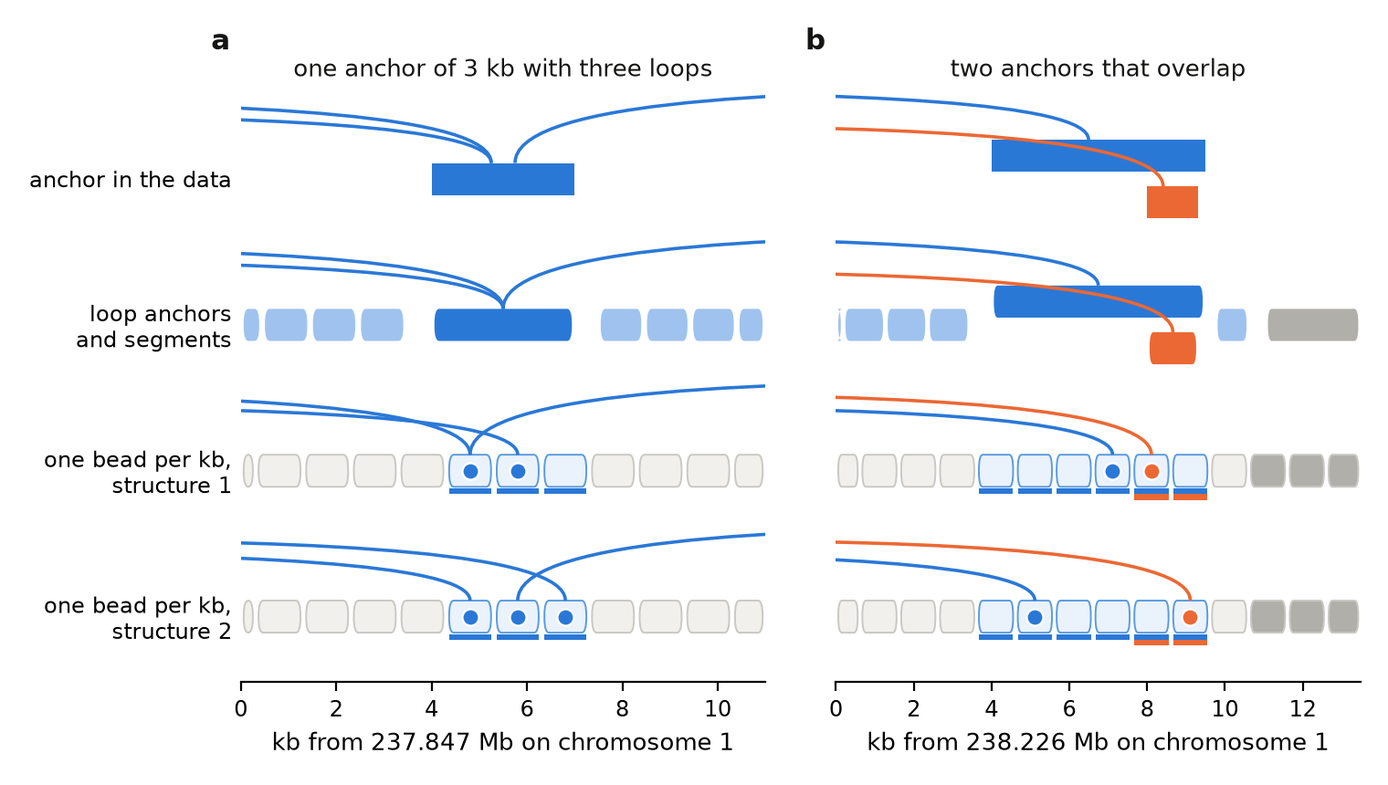
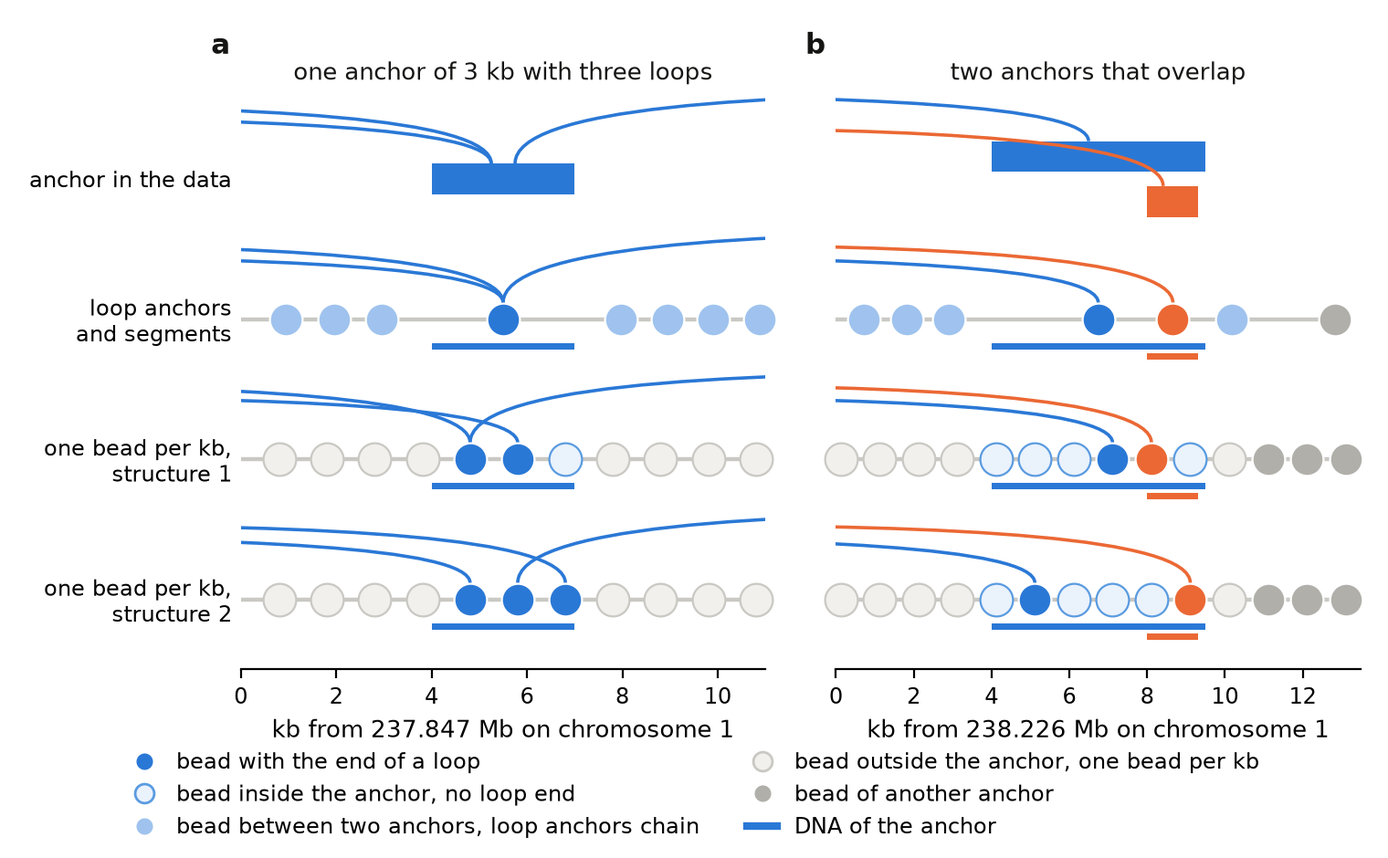
web: figure 8 of the Method page draws the beads, figures 9 and 10 are one figure
Figure 8 drew a bead as a box over its DNA. A bead is now a circle on a chain: the
chain of loop anchors has one bead for an anchor with the DNA of the anchor as a bar
under it, and the chain of one bead per kilobase has a bead on every kilobase, filled
where a loop ends. A key under the panels gives each kind of bead.

The kept loops and the targets of the nodes were two figures, each too large alone.
They are the panels a and b of figure 9, method_uniform_nodes.png, drawn by
uniform_nodes of render_method.py. The figures of the engine are 10a and 10b.

method_uniform_loops.png and method_uniform_targets.png are no longer used by the
page and are left in place.

Frontend: 368 tests, eslint, tsc and the build pass.

diff --git a/web/frontend/src/pages/Method.tsx b/web/frontend/src/pages/Method.tsx
@@ -17,8 +17,7 @@ import methodExponent from '../assets/method_exponent.png'
 import methodHic from '../assets/method_hic.png'
 import methodLoops from '../assets/method_loops.png'
 import methodUniformAnchor from '../assets/method_uniform_anchor.png'
-import methodUniformLoops from '../assets/method_uniform_loops.png'
-import methodUniformTargets from '../assets/method_uniform_targets.png'
+import methodUniformNodes from '../assets/method_uniform_nodes.png'
 import { METHOD_REFERENCES } from '../content/methodReferences'
 
 const SECTIONS = [
@@ -133,7 +132,7 @@ function P({ children }: { children: string }) {
 /** One job from its inputs to its output, with the energies and their sources. */
 export function Method() {
   const uniform = !hidden('uniform_chain')
-  const engineFigure = uniform ? 11 : 8
+  const engineFigure = uniform ? 10 : 8
   return (
     <DocPage
       title="Method"
@@ -295,14 +294,14 @@ export function Method() {
         <h3>The ends of a loop</h3>
         <P>{"The chain has one bead for each kilobase of a block. An anchor covers the beads inside its coordinates, three beads for an anchor of 3 kb. A loop joins two anchors and ends on one bead of each, which is drawn at random among the beads of the anchor for every structure. A bead with the end of a loop is called a node. Two loops of one anchor can end on different nodes, while the nodes of one loop differ between two structures, figure 8a."}</P>
         <P>{"Two anchors of the data can overlap. On the chain of loop anchors each of them is a bead of its own and the two beads then cover the same DNA. On the chain of one bead per kilobase the two anchors share the beads of their overlap, figure 8b. A loop of either anchor can end on a shared bead and two loop ends on one bead make one node."}</P>
-        <Figure n="8" src={methodUniformAnchor} alt="One anchor of 3 kb with three loops and two overlapping anchors, each drawn as the data give them, as beads of the chain of loop anchors and as beads of the chain of one bead per kilobase in two structures, with the bead of every loop end">
-          An example of an anchor on the two chains, chromosome 1 of GM12878. a, one anchor of 3 kb with three loops, near 237.85 Mb. The chain of loop anchors has one bead for the anchor and every loop ends on it. The chain of one bead per kilobase has three beads under the anchor, marked by the line under them. Each loop ends on one of the three, drawn anew in every structure. A dot is a node. b, two anchors that overlap near 238.23 Mb, the smaller one inside the larger. The chain of loop anchors has one bead for each and the two beads cover the same DNA. On the chain of one bead per kilobase the two anchors share two beads. Grey beads belong to another anchor. The loops are those of the anchors in the data.
+        <Figure n="8" src={methodUniformAnchor} alt="One anchor of 3 kb with three loops and two overlapping anchors, each drawn as the data give them, as the beads of the chain of loop anchors and as the beads of the chain of one bead per kilobase in two structures, every bead a circle and the beads with a loop end filled">
+          An example of an anchor on the two chains, chromosome 1 of GM12878. A circle is a bead and the line under the beads is the DNA of the anchor. a, one anchor of 3 kb with three loops, near 237.85 Mb. The chain of loop anchors has one bead for the anchor and every loop ends on it. The chain of one bead per kilobase has three beads on the anchor. Each loop ends on one of the three, drawn anew in every structure. A filled bead is a node. b, two anchors that overlap near 238.23 Mb, the smaller one inside the larger. The chain of loop anchors has one bead for each and the two beads cover the same DNA. On the chain of one bead per kilobase the two anchors share two beads. Grey beads belong to another anchor. The loops are those of the anchors in the data.
         </Figure>
 
         <h3>The loops of one structure</h3>
-        <P>{"A loop is present in a share of the cells of the experiment and that share is larger for a strong loop. A structure represents one conformation and therefore keeps a loop with a probability that grows with its strength. The probability is q / (q + 1), where q is the strength of the loop, its PET count over the typical count at its span, section 2. A loop of typical strength has q of 1 and is in half of the structures, while a loop four times as strong is in four of five, figure 9."}</P>
-        <Figure n="9" src={methodUniformLoops} alt="The share of the structures that keep a loop against the strength of the loop, a curve from 0.05 at a strength of 0.05 to 0.97 at 30 with the 46 loops of the example region as points on it">
-          An example of the loops that a structure keeps, the 46 loops of the region of figure 1. Each point is a loop at its strength q and the line is the share of the structures that keep it. The dashed lines mark a loop of typical strength, which is in half of the structures.
+        <P>{"A loop is present in a share of the cells of the experiment and that share is larger for a strong loop. A structure represents one conformation and therefore keeps a loop with a probability that grows with its strength. The probability is q / (q + 1), where q is the strength of the loop, its PET count over the typical count at its span, section 2. A loop of typical strength has q of 1 and is in half of the structures, while a loop four times as strong is in four of five, figure 9a."}</P>
+        <Figure n="9" src={methodUniformNodes} alt="Left, the share of the structures that keep a loop against the strength of the loop, a curve from 0.05 at a strength of 0.05 to 0.97 at 30 with the 46 loops of the example region as points on it. Right, a matrix of the pairs of the 31 nodes of one structure of the region coloured by the kind of target, with loops and background pairs under 100 kb near the diagonal and the background between two stretches of 100 kb across the blocks">
+          An example of the loops and the targets of one structure, the region of figure 1. a, the 46 loops of the region. Each point is a loop at its strength q and the line is the share of the structures that keep it. The dashed lines mark a loop of typical strength, which is in half of the structures. b, the targets of the 31 nodes of one structure. Every pair of nodes is coloured by its target. The pairs of two stretches of 100 kb reach across the blocks, where the chain of loop anchors has no target in figure 6a.
         </Figure>
 
         <h3>The nodes in the anchor phase</h3>
@@ -311,15 +310,12 @@ export function Method() {
 
         <h3>Contacts from the Hi-C map</h3>
         <P>{"Section 2 reads the Hi-C map for pairs of anchors. This chain reads it in cells of 5 kb, where a cell is the count of contacts between two stretches of 5 kb. A pair of nodes reads the cell that holds its two beads. The count of a cell is compared with its expected count, the mean count at the same genomic separation multiplied by the coverage of its two stretches. The coverage of a stretch is its share of contacts relative to an average stretch and comes from the balancing weights of the map."}</P>
-        <P>{"A count of rare events varies by about the square root of its expected value. A cell therefore counts as enriched when it is more than three such deviations above its expected count and as depleted when it is as far below. A cell with an expected count of 16 is enriched at 28 contacts or more and depleted at 4 or fewer. The two nodes of an enriched cell get a target under the background distance and those of a depleted cell a target over it, both by the rule of section 2 for the Hi-C map. Such cells are rare and the example of figure 10 has none."}</P>
+        <P>{"A count of rare events varies by about the square root of its expected value. A cell therefore counts as enriched when it is more than three such deviations above its expected count and as depleted when it is as far below. A cell with an expected count of 16 is enriched at 28 contacts or more and depleted at 4 or fewer. The two nodes of an enriched cell get a target under the background distance and those of a depleted cell a target over it, both by the rule of section 2 for the Hi-C map. Such cells are rare and the example of figure 9b has none."}</P>
         <P>{"The cells are read with the Hi-C background of the cell type. A job with structural variants, with your own contacts, with a predicted background or with no background has no cells."}</P>
 
         <h3>Distance of two distant parts</h3>
-        <P>{"The background spring of section 3 acts on pairs closer than 100 kb. A chain of single kilobases needs a second hold beyond that distance, since no other term keeps two parts of a region that are megabases apart from folding onto each other. The region is therefore divided into stretches of 100 kb and each stretch is represented by one node, the node closest to its middle. Two of these nodes are held at the background distance b(s) of section 2 when no loop and no cell gives them a target, figure 10."}</P>
+        <P>{"The background spring of section 3 acts on pairs closer than 100 kb. A chain of single kilobases needs a second hold beyond that distance, since no other term keeps two parts of a region that are megabases apart from folding onto each other. The region is therefore divided into stretches of 100 kb and each stretch is represented by one node, the node closest to its middle. Two of these nodes are held at the background distance b(s) of section 2 when no loop and no cell gives them a target, figure 9b."}</P>
         <P>{"Every pair up to 5 Mb apart is held. Beyond 5 Mb a node is paired with two others for each doubling of the separation. The number of springs of a node then grows with the logarithm of the length of the chromosome, while a number that grew with the length itself would outweigh the excluded volume on a whole chromosome."}</P>
-        <Figure n="10" src={methodUniformTargets} alt="A matrix of the pairs of the 31 nodes of one structure of a 6 Mb region coloured by the kind of target, with loops and background pairs under 100 kb near the diagonal and the background between two stretches of 100 kb across the blocks">
-          An example of the targets of the nodes, one structure of the region of figure 1 with 31 nodes. Every pair of nodes is coloured by its target. The pairs of two stretches of 100 kb reach across the blocks, where the chain of loop anchors has no target in figure 6a.
-        </Figure>
 
         <h3>The chain between the nodes</h3>
         <P>{"The chain phase of section 4 moves the beads between the nodes with the same five terms, yet two of its rules differ. A node is not fixed in this chain and moves together with the bead before it and the bead after it, while the centre of mass of the three stays in place. Each neighbour moves by minus half of the step of the node, which lets the node turn among its neighbours at the position the anchor phase gave it. The second rule is the bond, which resists compression ten times as strongly as stretching and keeps two neighbouring beads from overlapping."}</P>

diff --git a/web/frontend/src/pages/Method.test.tsx b/web/frontend/src/pages/Method.test.tsx
@@ -35,9 +35,9 @@ describe('Method page', () => {
   it('numbers every figure once, in the order of the page', () => {
     const { container } = renderMethod()
     const labels = [...container.querySelectorAll('figcaption b, p.panel-caption > b')].map((b) => b.textContent).filter((s) => s?.startsWith('Figure'))
-    expect(labels).toEqual([1, 2, 3, 4, 5, 6, 7, 8, 9, 10].map((n) => `Figure ${n}`).concat(['Figure 11a', 'Figure 11b']))
-    expect(document.getElementById('engine')).toHaveTextContent('figure 11a')
-    expect(document.getElementById('engine')).toHaveTextContent('figure 11b')
+    expect(labels).toEqual([1, 2, 3, 4, 5, 6, 7, 8, 9].map((n) => `Figure ${n}`).concat(['Figure 10a', 'Figure 10b']))
+    expect(document.getElementById('engine')).toHaveTextContent('figure 10a')
+    expect(document.getElementById('engine')).toHaveTextContent('figure 10b')
   })
 
   it('leaves the chain of one bead per kilobase out where the site turns it off', () => {

diff --git a/web/design/render_method.py b/web/design/render_method.py
@@ -664,61 +664,19 @@ def _loop_stub(ax: plt.Axes, x: float, y: float, side: int, reach: float, rise: 
 
 
 def uniform_anchor(tab: Path, out: Path) -> None:
-    """Draws one anchor and two overlapping anchors as the data give them, on the chain of loop
-    anchors and on the chain of one bead per kilobase in two structures."""
+    """Draws one anchor and two overlapping anchors as the data give them, as the beads of the
+    chain of loop anchors and as the beads of the chain of one bead per kilobase in two structures."""
+    from matplotlib.lines import Line2D
+
     both = json.loads((tab / "uniform_anchors.json").read_text())
     tints = [BLUE, "#eb6834"]
-    fig, axes = plt.subplots(1, 2, figsize=(WIDTH, 4.3))
+    edge = "#c9c8c3"
+    fig, axes = plt.subplots(1, 2, figsize=(WIDTH, 4.7))
     rows = ["anchor in the data", "loop anchors\nand segments", "one bead per kb,\nstructure 1", "one bead per kb,\nstructure 2"]
     for ax, key, tag in zip(axes, ("single", "overlap"), ("a", "b"), strict=True):
-        e = both[key]
-        w0, w1 = e["window"]
-        kb = 1e3
-
-        def x(v: float, w0: int = w0, kb: float = kb) -> float:
-            return (v - w0) / kb
-
-        span = x(w1)
-        # The anchors as the data give them, one bar each.
-        for n, a in enumerate(e["anchors"]):
-            y = 3.0 + (0.16 if n == 0 else -0.16) * (len(e["anchors"]) > 1)
-            ax.add_patch(plt.Rectangle((x(a["start"]), y - 0.11), x(a["end"]) - x(a["start"]), 0.22, fc=tints[n], ec="none"))
-        for i, lp in enumerate(e["loops"]):
-            a = e["anchors"][lp["anchor"]]
-            y = 3.0 + (0.16 if lp["anchor"] == 0 else -0.16) * (len(e["anchors"]) > 1)
-            mid = (x(a["start"]) + x(a["end"])) / 2 + 0.25 * lp["side"]
-            _loop_stub(ax, mid, y + 0.11, lp["side"], span, 0.26 + 0.07 * i, tints[lp["anchor"]])
-        # The chain of loop anchors: one bead for an anchor, beads of about 1 kb between two anchors.
-        picked = {(a["start"], a["end"]): n for n, a in enumerate(e["anchors"])}
-        for b in e["default"]:
-            n = picked.get((b["start"], b["end"]))
-            y = 2.0 + ((0.16 if n == 0 else -0.16) if n is not None and len(e["anchors"]) > 1 else 0.0)
-            colour = tints[n] if n is not None else (OTHER if b["anchor"] else PALE)
-            left, right = max(x(b["start"]), 0.0), min(x(b["end"]), span)
-            ax.add_patch(FancyBboxPatch((left + 0.06, y - 0.11), right - left - 0.12, 0.22, boxstyle="round,pad=0.0,rounding_size=0.1", fc=colour, ec="none"))
-        for i, lp in enumerate(e["loops"]):
-            a = e["anchors"][lp["anchor"]]
-            y = 2.0 + (0.16 if lp["anchor"] == 0 else -0.16) * (len(e["anchors"]) > 1)
-            _loop_stub(ax, (x(a["start"]) + x(a["end"])) / 2, y + 0.11, lp["side"], span, 0.26 + 0.07 * i, tints[lp["anchor"]])
-        # The chain of one bead per kilobase in two structures, with the bead of each loop end.
-        for row, draw in zip((1.0, 0.0), e["draws"], strict=True):
-            for b in e["uniform"]:
-                owners = b["anchors"]
-                left, right = max(x(b["start"]), 0.0), min(x(b["end"]), span)
-                colour = WASH if owners else (GAP if not b["covered"] else OTHER)
-                ax.add_patch(FancyBboxPatch((left + 0.06, row - 0.11), right - left - 0.12, 0.22, boxstyle="round,pad=0.0,rounding_size=0.1", fc=colour, ec=MID if owners else "#c9c8c3", lw=0.7))
-                if len(owners) > 1:
-                    ax.add_patch(plt.Rectangle((left + 0.06, row - 0.2), right - left - 0.12, 0.04, fc=tints[1], ec="none"))
-                    ax.add_patch(plt.Rectangle((left + 0.06, row - 0.16), right - left - 0.12, 0.04, fc=tints[0], ec="none"))
-                elif owners:
-                    ax.add_patch(plt.Rectangle((left + 0.06, row - 0.16), right - left - 0.12, 0.04, fc=tints[owners[0]], ec="none"))
-            for i, (lp, bead) in enumerate(zip(e["loops"], draw, strict=True)):
-                b = e["uniform"][bead]
-                centre = (x(b["start"]) + x(b["end"])) / 2
-                ax.plot([centre], [row], marker="o", ms=6.5, color=tints[lp["anchor"]], mec="white", mew=0.8, zorder=5)
-                _loop_stub(ax, centre, row + 0.11, lp["side"], span, 0.26 + 0.07 * i, tints[lp["anchor"]])
-        ax.set_xlim(0, span)
-        ax.set_ylim(-0.45, 3.6)
+        w0, w1 = both[key]["window"]
+        ax.set_xlim(0, (w1 - w0) / 1e3)
+        ax.set_ylim(-0.5, 3.6)
         ax.set_yticks([3.0, 2.0, 1.0, 0.0])
         ax.set_yticklabels(rows if tag == "a" else [""] * 4, fontsize=8.5)
         ax.tick_params(axis="y", length=0)
@@ -728,59 +686,132 @@ def uniform_anchor(tab: Path, out: Path) -> None:
         title = "one anchor of 3 kb with three loops" if key == "single" else "two anchors that overlap"
         ax.set_title(title, fontsize=9.5, color=INK, pad=6)
         letter(ax, tag)
-    fig.tight_layout(w_pad=1.6)
+    fig.tight_layout(w_pad=1.6, rect=(0, 0.1, 1, 1))
+    fig.canvas.draw()
+    # A bead is a circle on the page. Its size comes from the scale of the panel with the longer window.
+    per_kb = min(ax.get_window_extent().width * 72 / fig.dpi / ax.get_xlim()[1] for ax in axes)
+    size = 0.84 * per_kb
+    for ax, key in zip(axes, ("single", "overlap"), strict=True):
+        e = both[key]
+        w0, w1 = e["window"]
+        span = (w1 - w0) / 1e3
+        top = size / 2 / (ax.get_window_extent().height * 72 / fig.dpi / 4.1)
+        two = len(e["anchors"]) > 1
+
+        def x(v: float, w0: int = w0) -> float:
+            return (v - w0) / 1e3
+
+        def centre(b: dict, x=x) -> float:  # noqa: ANN001
+            return (x(b["start"]) + x(b["end"])) / 2
+
+        def bead(at: float, y: float, fill: str, line: str, ax: plt.Axes = ax, span: float = span) -> None:
+            if 0.0 <= at <= span:
+                ax.plot([at], [y], marker="o", ms=size, color=fill, mec=line, mew=0.8, zorder=4, clip_on=False)
+
+        def dna(a: dict, y: float, n: int, ax: plt.Axes = ax, x=x, top: float = top) -> None:  # noqa: ANN001
+            ax.add_patch(plt.Rectangle((x(a["start"]), y - top - 0.1 - 0.07 * n), x(a["end"]) - x(a["start"]), 0.045, fc=tints[n], ec="none"))
+
+        # The anchors as the data give them, one bar each.
+        for n, a in enumerate(e["anchors"]):
+            y = 3.0 + (0.16 if n == 0 else -0.16) * two
+            ax.add_patch(plt.Rectangle((x(a["start"]), y - 0.11), x(a["end"]) - x(a["start"]), 0.22, fc=tints[n], ec="none"))
+        for i, lp in enumerate(e["loops"]):
+            a = e["anchors"][lp["anchor"]]
+            y = 3.0 + (0.16 if lp["anchor"] == 0 else -0.16) * two
+            _loop_stub(ax, centre(a) + 0.25 * lp["side"], y + 0.11, lp["side"], span, 0.26 + 0.07 * i, tints[lp["anchor"]])
+        # The chain of loop anchors: an anchor is one bead, with the DNA it covers as a bar under it.
+        picked = {(a["start"], a["end"]): n for n, a in enumerate(e["anchors"])}
+        ax.plot([centre(b) for b in e["default"]], [2.0] * len(e["default"]), color=edge, lw=1.6, zorder=2)
+        for b in e["default"]:
+            n = picked.get((b["start"], b["end"]))
+            if n is not None:
+                bead(centre(b), 2.0, tints[n], "white")
+                dna(b, 2.0, n)
+            else:
+                bead(centre(b), 2.0, OTHER if b["anchor"] else PALE, "white")
+        for i, lp in enumerate(e["loops"]):
+            a = e["anchors"][lp["anchor"]]
+            _loop_stub(ax, centre(a), 2.0 + top, lp["side"], span, 0.26 + 0.07 * i, tints[lp["anchor"]])
+        # The chain of one bead per kilobase in two structures: a loop ends on one bead of its anchor.
+        for row, draw in zip((1.0, 0.0), e["draws"], strict=True):
+            ax.plot([centre(b) for b in e["uniform"]], [row] * len(e["uniform"]), color=edge, lw=1.6, zorder=2)
+            ends = {bead_of: lp["anchor"] for lp, bead_of in zip(e["loops"], draw, strict=True)}
+            for k, b in enumerate(e["uniform"]):
+                owners = b["anchors"]
+                if k in ends:
+                    bead(centre(b), row, tints[ends[k]], "white")
+                elif owners:
+                    bead(centre(b), row, WASH, MID)
+                else:
+                    bead(centre(b), row, OTHER if b["covered"] else GAP, "white" if b["covered"] else edge)
+            for n, a in enumerate(e["anchors"]):
+                dna(a, row, n)
+            for i, (lp, bead_of) in enumerate(zip(e["loops"], draw, strict=True)):
+                _loop_stub(ax, centre(e["uniform"][bead_of]), row + top, lp["side"], span, 0.26 + 0.07 * i, tints[lp["anchor"]])
+    key_size = 7.5
+    handles = [
+        Line2D([], [], marker="o", ls="", ms=key_size, color=BLUE, mec="white", label="bead with the end of a loop"),
+        Line2D([], [], marker="o", ls="", ms=key_size, color=WASH, mec=MID, label="bead inside the anchor, no loop end"),
+        Line2D([], [], marker="o", ls="", ms=key_size, color=PALE, mec="white", label="bead between two anchors, loop anchors chain"),
+        Line2D([], [], marker="o", ls="", ms=key_size, color=GAP, mec=edge, label="bead outside the anchor, one bead per kb"),
+        Line2D([], [], marker="o", ls="", ms=key_size, color=OTHER, mec="white", label="bead of another anchor"),
+        Line2D([], [], color=BLUE, lw=3, label="DNA of the anchor"),
+    ]
+    fig.legend(handles=handles, frameon=False, fontsize=8.5, loc="lower center", ncol=2, handlelength=1.4, columnspacing=2.2)
     save(fig, out / "method_uniform_anchor.png")
 
 
-def uniform_loops(tab: Path, out: Path) -> None:
-    """Draws the share of the structures that keep a loop against its strength, with the loops of
-    the region."""
-    loops = pd.read_csv(tab / "uniform_loops.csv")
-    fig, ax = plt.subplots(figsize=(WIDTH * 0.62, 3.2))
-    q = np.geomspace(0.05, 30, 200)
-    ax.plot(q, q / (q + 1), color=INK, lw=1.4, label="q / (q + 1)")
-    ax.scatter(loops.strength, loops.kept, s=22, color=BLUE, alpha=0.75, lw=0, zorder=3, label=f"the {len(loops)} loops of the region")
-    ax.axhline(0.5, color="#c9c8c3", lw=0.7, ls=(0, (3, 3)))
-    ax.axvline(1.0, color="#c9c8c3", lw=0.7, ls=(0, (3, 3)))
-    ax.set_xscale("log")
-    ax.set_xticks([0.1, 0.3, 1, 3, 10, 30])
-    ax.set_xticklabels(["0.1", "0.3", "1", "3", "10", "30"])
-    ax.minorticks_off()
-    ax.set_ylim(0, 1.02)
-    ax.set_xlabel("strength of the loop, q", fontsize=9.5)
-    ax.set_ylabel("share of the structures\nthat keep the loop", fontsize=9.5)
-    ax.legend(frameon=False, fontsize=8.5, loc="lower right")
-    style(ax)
-    fig.tight_layout()
-    save(fig, out / "method_uniform_loops.png")
-
-
-def uniform_targets(tab: Path, out: Path) -> None:
-    """Draws the kind of target of every pair of nodes of one structure of the region."""
+def uniform_nodes(tab: Path, out: Path) -> None:
+    """Draws the share of the structures that keep a loop against its strength and the kind of
+    target of every pair of nodes of one structure of the region."""
     from matplotlib.colors import ListedColormap
     from matplotlib.patches import Patch
 
+    loops = pd.read_csv(tab / "uniform_loops.csv")
     kind = pd.read_csv(tab / "uniform_pairs.csv", header=None).to_numpy()
     nodes = pd.read_csv(tab / "uniform_nodes.csv")
     n_of = json.loads((tab / "fits.json").read_text())["uniform_pairs"]
     n = len(nodes)
+    fig, (left, right) = plt.subplots(1, 2, figsize=(WIDTH, 4.4), gridspec_kw={"width_ratios": [1.0, 1.0]})
+
+    q = np.geomspace(0.05, 30, 200)
+    left.plot(q, q / (q + 1), color=INK, lw=1.4, label="q / (q + 1)")
+    left.scatter(loops.strength, loops.kept, s=22, color=BLUE, alpha=0.75, lw=0, zorder=3, label=f"the {len(loops)} loops of the region")
+    left.axhline(0.5, color="#c9c8c3", lw=0.7, ls=(0, (3, 3)))
+    left.axvline(1.0, color="#c9c8c3", lw=0.7, ls=(0, (3, 3)))
+    left.set_xscale("log")
+    left.set_xticks([0.1, 0.3, 1, 3, 10, 30])
+    left.set_xticklabels(["0.1", "0.3", "1", "3", "10", "30"])
+    left.minorticks_off()
+    left.set_ylim(0, 1.02)
+    left.set_box_aspect(1.0)
+    left.set_anchor("N")
+    left.set_xlabel("strength of the loop, q", fontsize=9.5)
+    left.set_ylabel("share of the structures\nthat keep the loop", fontsize=9.5)
+    left.legend(frameon=False, fontsize=8.5, loc="lower right")
+    left.set_title("loops that a structure keeps", fontsize=9.5, color=INK, pad=6)
+    style(left)
+    letter(left, "a")
+
     colours = [GAP, BLUE, INK, "#eb6834", "#1baf7a", PALE]
-    fig, ax = plt.subplots(figsize=(WIDTH * 0.62, 4.6))
-    ax.imshow(np.ma.masked_less(kind, 0), cmap=ListedColormap(colours), vmin=0, vmax=5, interpolation="nearest")
+    right.imshow(np.ma.masked_less(kind, 0), cmap=ListedColormap(colours), vmin=0, vmax=5, interpolation="nearest")
     for c in np.flatnonzero(np.diff(nodes.block)) + 0.5:
-        ax.axhline(c, color="white", lw=1.6)
-        ax.axvline(c, color="white", lw=1.6)
+        right.axhline(c, color="white", lw=1.6)
+        right.axvline(c, color="white", lw=1.6)
     blocks_seen = sorted(nodes.block.unique())
     centres = [float(np.flatnonzero(nodes.block == b).mean()) for b in blocks_seen]
-    ax.set_xticks(centres)
-    ax.set_xticklabels([f"block {k + 1}" for k in range(len(centres))], fontsize=8.5)
-    ax.set_yticks(centres)
-    ax.set_yticklabels([f"block {k + 1}" for k in range(len(centres))], fontsize=8.5, rotation=90, va="center")
-    ax.tick_params(length=0)
-    for side in ax.spines.values():
+    right.set_xticks(centres)
+    right.set_xticklabels([str(k + 1) for k in range(len(centres))], fontsize=8.5)
+    right.set_yticks(centres)
+    right.set_yticklabels([str(k + 1) for k in range(len(centres))], fontsize=8.5)
+    right.set_xlabel("block", fontsize=9.5)
+    right.set_ylabel("block", fontsize=9.5)
+    right.tick_params(length=0)
+    for side in right.spines.values():
         side.set_visible(False)
-    ax.set_xlim(-0.5, n - 0.5)
-    ax.set_ylim(n - 0.5, -0.5)
+    right.set_xlim(-0.5, n - 0.5)
+    right.set_ylim(n - 0.5, -0.5)
+    right.set_anchor("N")
     handles = [
         Patch(fc=BLUE, label=f"loop, {n_of['loop']} pairs"),
         Patch(fc=INK, label=f"background under 100 kb, {n_of['background']} pairs"),
@@ -791,10 +822,11 @@ def uniform_targets(tab: Path, out: Path) -> None:
     if n_of["depleted"]:
         handles.append(Patch(fc="#1baf7a", label=f"depleted cell, {n_of['depleted']} pairs"))
     handles.append(Patch(fc=GAP, ec="#d9d8d3", label=f"no target, {n_of['none']:,} pairs"))
-    ax.legend(handles=handles, frameon=False, fontsize=8.5, loc="upper center", bbox_to_anchor=(0.5, -0.07), ncol=1, handlelength=1.2)
-    ax.set_title(f"{n} nodes of one structure, {n_of['pairs']:,} pairs", fontsize=9.5, color=INK, pad=6)
-    fig.tight_layout(rect=(0, 0.02, 1, 1))
-    save(fig, out / "method_uniform_targets.png")
+    right.legend(handles=handles, frameon=False, fontsize=8.5, loc="upper center", bbox_to_anchor=(0.5, -0.13), ncol=1, handlelength=1.2)
+    right.set_title(f"targets of the {n} nodes of one structure, {n_of['pairs']:,} pairs", fontsize=9.5, color=INK, pad=6)
+    letter(right, "b")
+    fig.tight_layout(rect=(0, 0.02, 1, 1), w_pad=2.0)
+    save(fig, out / "method_uniform_nodes.png")
 
 
 def main() -> None:
@@ -813,8 +845,7 @@ def main() -> None:
     hic_targets(tab, out)
     anchor_terms(tab, out)
     uniform_anchor(tab, out)
-    uniform_loops(tab, out)
-    uniform_targets(tab, out)
+    uniform_nodes(tab, out)
 
 
 if __name__ == "__main__":
